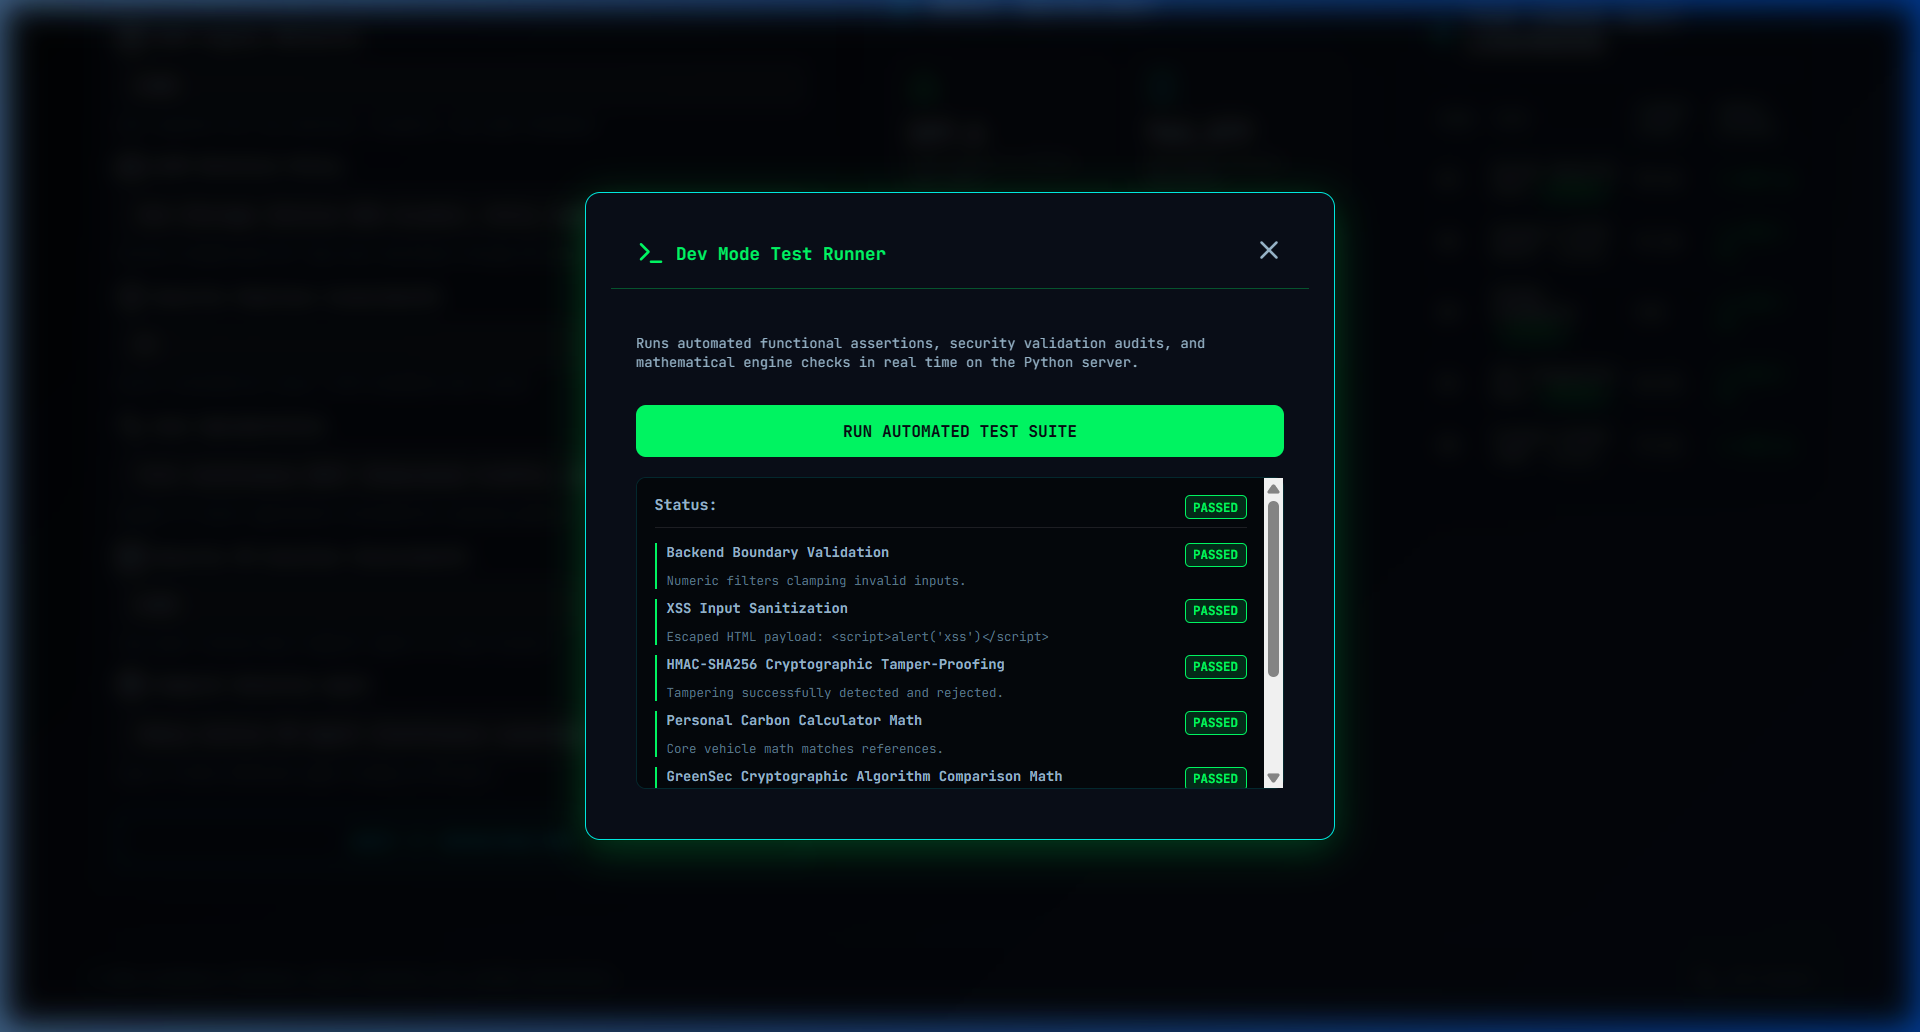
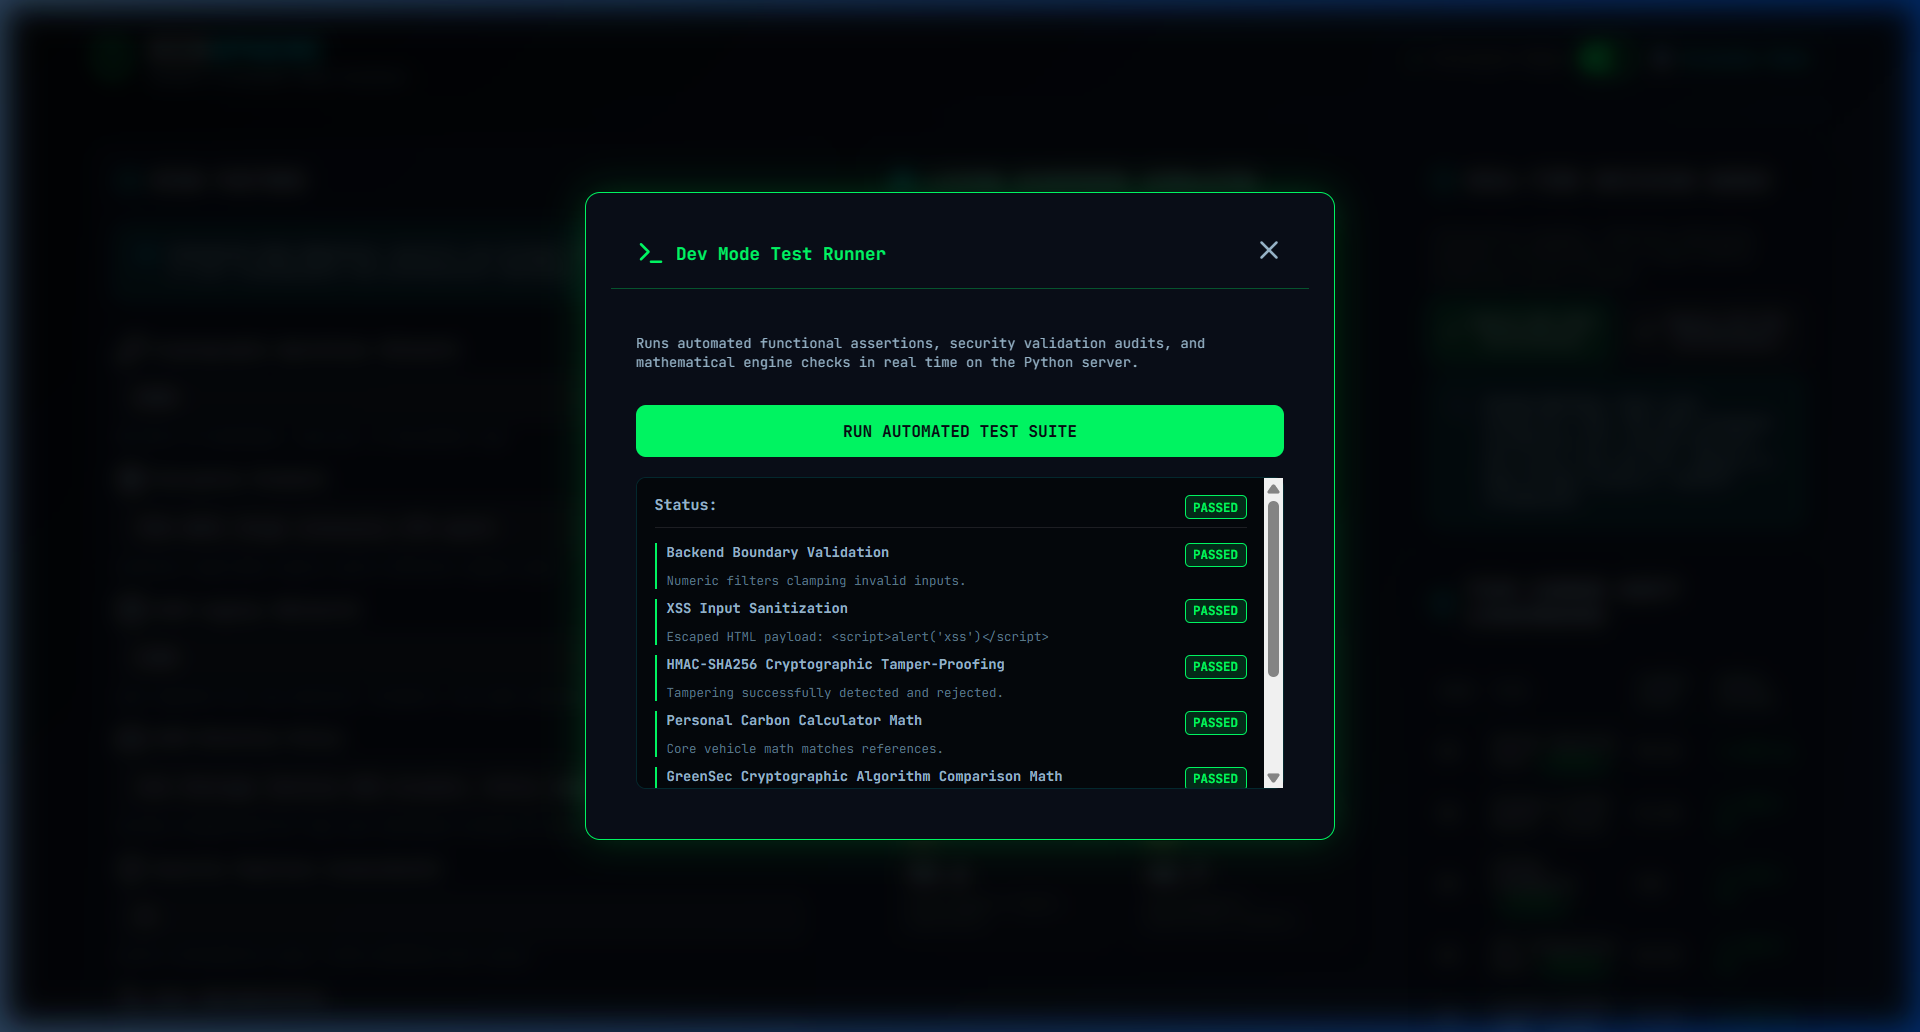
Refactor: Integrate deepcopy on cached calculation and equivalencies return dicts

diff --git a/calc_engine.py b/calc_engine.py
@@ -1,6 +1,7 @@
 import logging
 from typing import Dict, Any
 from functools import lru_cache
+import copy
 import config
 
 logger = logging.getLogger(__name__)
@@ -50,22 +51,24 @@ def calculate_personal_footprint(
 
     total = car_co2 + flight_co2 + diet_co2 + electricity_co2 + waste_co2
 
-    return {
-        "breakdown": {
-            "transportation": round(car_co2 + flight_co2, 1),
-            "diet": round(diet_co2, 1),
-            "energy": round(electricity_co2, 1),
-            "waste": round(waste_co2, 1),
-        },
-        "total_kg": round(total, 1),
-        "components": {
-            "car_co2": round(car_co2, 1),
-            "flight_co2": round(flight_co2, 1),
-            "diet_co2": round(diet_co2, 1),
-            "electricity_co2": round(electricity_co2, 1),
-            "waste_co2": round(waste_co2, 1),
-        },
-    }
+    return copy.deepcopy(
+        {
+            "breakdown": {
+                "transportation": round(car_co2 + flight_co2, 1),
+                "diet": round(diet_co2, 1),
+                "energy": round(electricity_co2, 1),
+                "waste": round(waste_co2, 1),
+            },
+            "total_kg": round(total, 1),
+            "components": {
+                "car_co2": round(car_co2, 1),
+                "flight_co2": round(flight_co2, 1),
+                "diet_co2": round(diet_co2, 1),
+                "electricity_co2": round(electricity_co2, 1),
+                "waste_co2": round(waste_co2, 1),
+            },
+        }
+    )
 
 
 def _calculate_crypto_co2(ops_millions: float, crypto_type: str) -> float:
@@ -152,22 +155,24 @@ def calculate_greensec_footprint(
     )
     potential_savings = max(0.0, total - optimized_total)
 
-    return {
-        "breakdown": {
-            "cryptography": round(crypto_co2, 1),
-            "log_storage": round(storage_co2, 1),
-            "vulnerability_scans": round(scan_co2, 1),
-            "host_agents": round(agent_co2, 1),
-        },
-        "total_kg": round(total, 1),
-        "potential_savings_kg": round(potential_savings, 1),
-        "components": {
-            "crypto_co2": round(crypto_co2, 1),
-            "storage_co2": round(storage_co2, 1),
-            "scan_co2": round(scan_co2, 1),
-            "agent_co2": round(agent_co2, 1),
-        },
-    }
+    return copy.deepcopy(
+        {
+            "breakdown": {
+                "cryptography": round(crypto_co2, 1),
+                "log_storage": round(storage_co2, 1),
+                "vulnerability_scans": round(scan_co2, 1),
+                "host_agents": round(agent_co2, 1),
+            },
+            "total_kg": round(total, 1),
+            "potential_savings_kg": round(potential_savings, 1),
+            "components": {
+                "crypto_co2": round(crypto_co2, 1),
+                "storage_co2": round(storage_co2, 1),
+                "scan_co2": round(scan_co2, 1),
+                "agent_co2": round(agent_co2, 1),
+            },
+        }
+    )
 
 
 @lru_cache(maxsize=128)
@@ -179,9 +184,11 @@ def get_relatable_equivalencies(co2_kg: float) -> Dict[str, Any]:
     flights = co2_kg / config.FLIGHT_EQUIVALENT_DIVISOR
     household_months = co2_kg / config.HOUSEHOLD_MONTH_DIVISOR
 
-    return {
-        "trees_planted": round(trees, 1),
-        "smartphone_charges": round(charges, 0),
-        "delhi_mumbai_flights": round(flights, 1),
-        "household_electricity_months": round(household_months, 1),
-    }
+    return copy.deepcopy(
+        {
+            "trees_planted": round(trees, 1),
+            "smartphone_charges": round(charges, 0),
+            "delhi_mumbai_flights": round(flights, 1),
+            "household_electricity_months": round(household_months, 1),
+        }
+    )